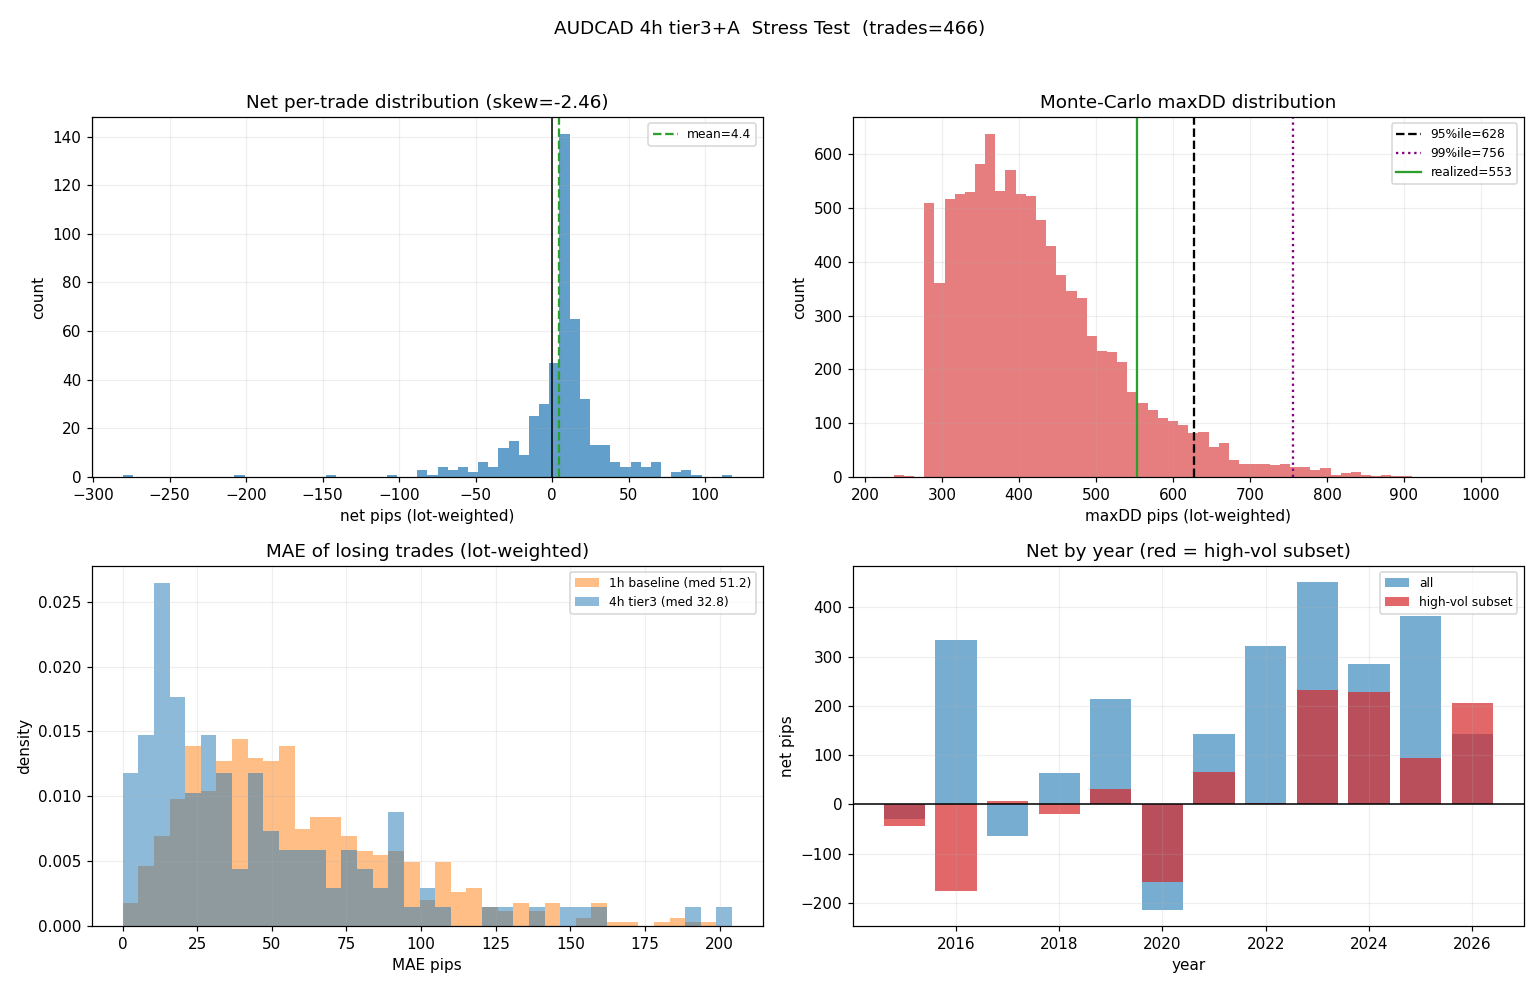
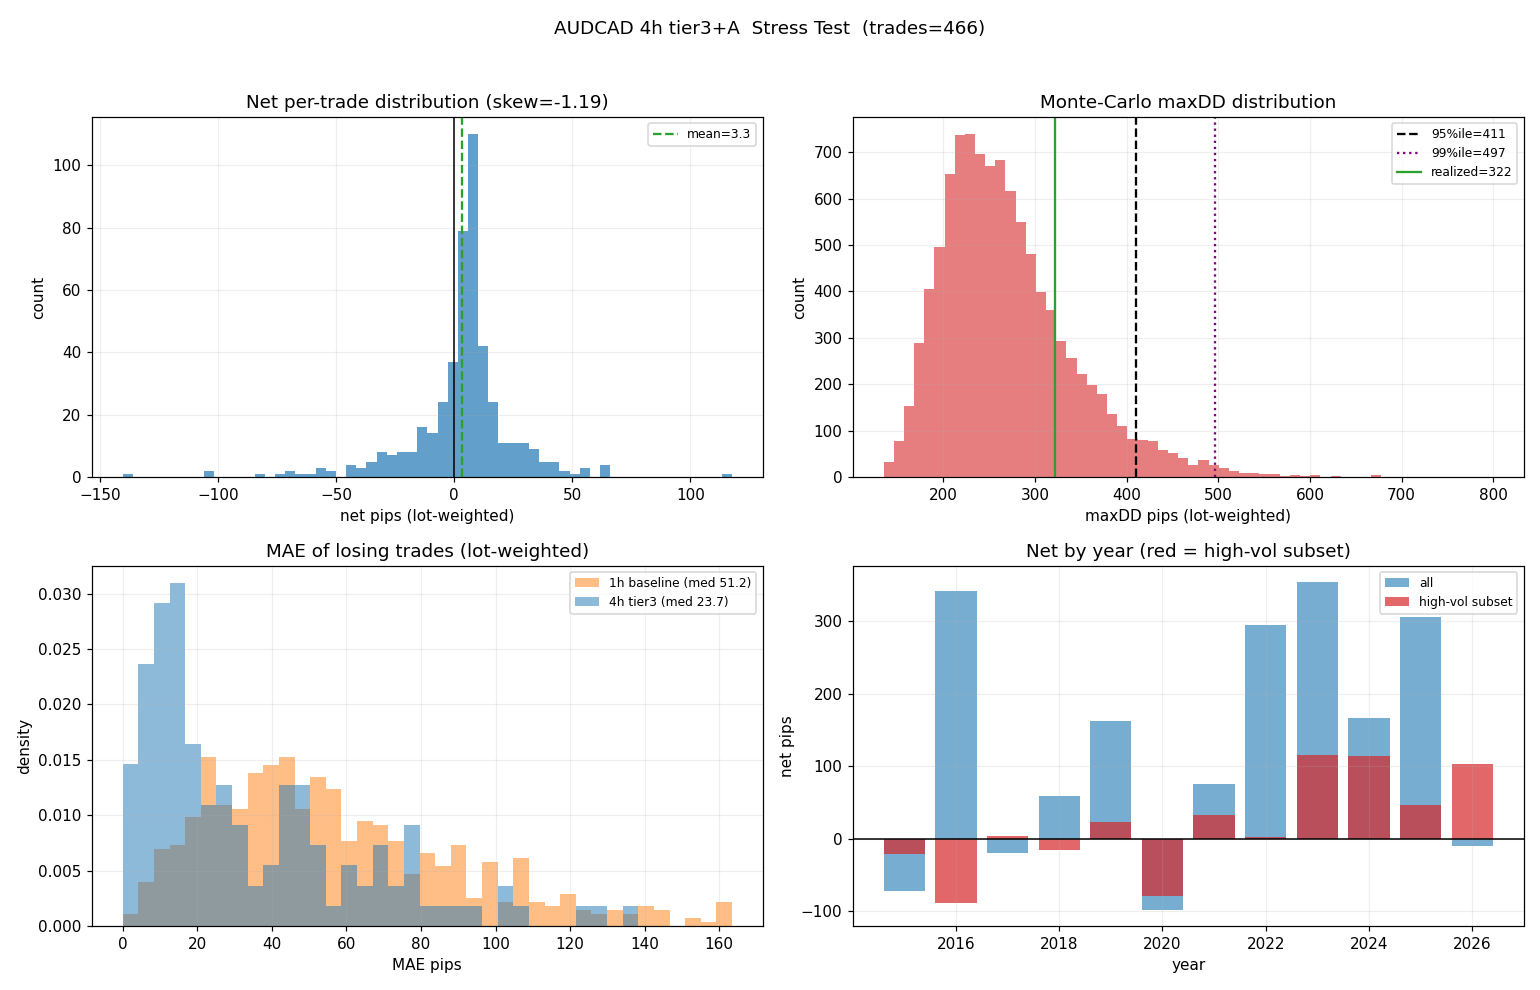
Fix AUDCAD vol-throttle not wired in audcad_stress_test.py
audcad_stress_test.py's _Args/dynamic_lot_mr_bt.base_cfg() never set
vol_throttle_th/vol_throttle_mult, so run_bt_tiered3 silently evaluated
with the high-vol lot throttle OFF (cfg.get default 1.01), even though
audcad_mr_deployment_plan.md documents its MC95 (398 lot-pip) as the
"throttle後" value and vps/mr_monitor.py actually runs AUDCAD with
vol_th=0.70. Re-running the script as-is reproduced 637 lot-pip instead.

- optimizer/audcad_stress_test.py: _Args now sets vol_throttle_th=0.70 /
  vol_throttle_mult=0.5 (matching vps/mr_monitor.py PAIR_CONFIG['AUDCAD']).
- optimizer/dynamic_lot_mr_bt.py: base_cfg() wires both keys through via
  getattr(args, ..., <old default>) so every other caller (its own CLI,
  mr_distribution_analysis.py) keeps the exact prior (throttle-off)
  behavior - non-breaking.
- Re-ran: MC95 now 411 lot-pip, matching (410.7) the independent
  mr_tiered_transfer_bt.make_cfg-based calc in mr_joint_basket_mc.py -
  cross-checked, not just closer to the documented 398.
- optimizer/mr_forward_review.py: update PAIRS['AUDCAD']['mc95_lotpip']
  398.0 -> 410.7 (the verified, reproducible figure) with provenance
  comment. This moves the AUDCAD killswitch dd_gt_mc95 threshold from
  429,840円 to 443,556円 at lot_scale=1.0.
- optimizer/test_dynamic_lot_mr_base_cfg.py: new regression guard (7
  checks) locking the wiring in both directions (passes through when
  set, stays OFF-default when absent).
[…]

diff --git a/optimizer/test_dynamic_lot_mr_base_cfg.py b/optimizer/test_dynamic_lot_mr_base_cfg.py
@@ -1,0 +1,82 @@
+"""
+test_dynamic_lot_mr_base_cfg.py - dynamic_lot_mr_bt.base_cfg() の vol_throttle 配線ガード。
+
+背景(2026-10-10): optimizer/audcad_stress_test.py の `_Args`/`base_cfg()` 連携が
+vol_throttle_th/vol_throttle_mult をcfgへ渡していなかったため、run_bt_tiered3の
+高ボラ・ロットスロットル(cfg.get('vol_throttle_th', 1.01)=実質OFF既定値)が常にOFFで
+評価され、audcad_mr_deployment_plan.md が「throttle後」と明記するMC95(398 lot-pip)が
+再現不能(素の再実行では637 lot-pipが出る=mr_forward_review.PAIRS['AUDCAD']のキル閾値と
+不整合)だった。_Args にデフォルト値(0.70/0.5, vps/mr_monitor.py PAIR_CONFIG['AUDCAD']と
+同値)を追加し、base_cfg() は getattr(args, ..., デフォルト)で他の呼び出し元(それらの
+argsにこの属性が無い)の既存動作を変えずに配線した。本テストはこの配線が両方向
+(新規に渡れば効く / 無ければ以前と同じOFF既定値を保つ)で正しいことを固定する回帰ガード。
+
+pytest不要(本プロジェクトの既存規約)。
+Usage: python3 optimizer/test_dynamic_lot_mr_base_cfg.py
+"""
+import sys
+from pathlib import Path
+
+sys.path.insert(0, str(Path(__file__).parent))
+import dynamic_lot_mr_bt as M
+import audcad_stress_test as A
+
+PASS, FAIL = [], []
+
+
+def check(name, cond, detail=''):
+    (PASS if cond else FAIL).append((name, detail))
+    print(f"  [{'PASS' if cond else 'FAIL'}] {name}  {detail}")
+
+
+class _BareArgs:
+    """vol_throttle_th/vol_throttle_mult を一切持たない呼び出し元の代表
+    (dynamic_lot_mr_bt.py自身のargparse Namespace / mr_distribution_analysis.py 等)。"""
+    def __init__(self):
+        d = dict(n=40, z_in=2.0, z_tp=0.0, z_stop=4.0, max_hold=48, zk=1.0, max_lot=3.0,
+                 squeeze_lo=0.2, squeeze_mult=0.5, vol_hi=0.9, vol_hi_mult=0.5,
+                 confirm_window=6, rsi_os=30.0, rsi_ob=70.0, adx_max=25.0, slope_max=1.0,
+                 z_in2=2.5, tier_lot=0.5, tier3_zs=[2.0, 2.5, 3.0], tier3_lots=[0.2, 0.3, 0.5],
+                 partial_z=1.5)
+        self.__dict__.update(d)
+
+
+print('=' * 78)
+print('[1] base_cfg() 配線: 属性が無い呼び出し元は従来通りOFF既定値のまま')
+print('=' * 78)
+cfg_bare = M.base_cfg(_BareArgs())
+check("vol_throttle_th無し属性 -> cfg既定値1.01(=OFF)のまま", cfg_bare['vol_throttle_th'] == 1.01,
+      f"got={cfg_bare['vol_throttle_th']}")
+check("vol_throttle_mult無し属性 -> cfg既定値1.0(=無効化無し)のまま", cfg_bare['vol_throttle_mult'] == 1.0,
+      f"got={cfg_bare['vol_throttle_mult']}")
+
+print('\n' + '=' * 78)
+print('[2] base_cfg() 配線: audcad_stress_test._Args() は実際にth/multを渡す')
+print('=' * 78)
+cfg_real = M.base_cfg(A._Args())
+check("AUDCAD向け_Args() -> vol_throttle_th=0.70がcfgに伝わる", cfg_real['vol_throttle_th'] == 0.70,
+      f"got={cfg_real['vol_throttle_th']}")
+check("AUDCAD向け_Args() -> vol_throttle_mult=0.5がcfgに伝わる", cfg_real['vol_throttle_mult'] == 0.5,
+      f"got={cfg_real['vol_throttle_mult']}")
+check("vps/mr_monitor.py PAIR_CONFIG['AUDCAD']の vol_th=0.70 と一致",
+      cfg_real['vol_throttle_th'] == 0.70)
+
+print('\n' + '=' * 78)
+print('[3] run_bt_tiered3: 配線先の既定値が base_cfg の既定値と一致していることの確認')
+print('=' * 78)
+import inspect
+src = inspect.getsource(M.run_bt_tiered3)
+check("run_bt_tiered3のソースにvol_throttle_th既定値1.01が存在(配線先の確認)",
+      "cfg.get('vol_throttle_th', 1.01)" in src)
+check("run_bt_tiered3のソースにvol_throttle_mult既定値1.0が存在(配線先の確認)",
+      "cfg.get('vol_throttle_mult', 1.0)" in src)
+
+print('\n' + '=' * 78)
+print(f"結果: PASS={len(PASS)}  FAIL={len(FAIL)}")
+print('=' * 78)
+if FAIL:
+    print('FAILしたケース:')
+    for name, detail in FAIL:
+        print(f"  - {name}  {detail}")
+    sys.exit(1)
+print('全ケースPASS。')

diff --git a/optimizer/mr_forward_review.py b/optimizer/mr_forward_review.py
@@ -49,7 +49,14 @@ PAIRS = {
     # optimizer/audcad_mr_deployment_plan.md / audcad_stress_test.py
     'AUDCAD': {'magic': 20260050, 'tag': 'MR_AC',
                'full_pf': 1.61, 'oos_pf': 2.57, 'wr': 0.71,
-               'mc95_lotpip': 398.0,        # throttle後 MC maxDD 95%ile (lot-pip)
+               # mc95_lotpip: 2026-10-10修正。旧398.0はaudcad_stress_test.pyがvol_throttle_th
+               # (高ボラ・ロットスロットル)を base_cfg() へ渡しておらず実質throttle OFFで
+               # 計算されていた不整合値(修正前に再現すると637 lot-pipが出る)。_Args/base_cfg
+               # にvol_throttle_th/vol_throttle_mult配線を追加し再計算した411(=throttle後 MC
+               # maxDD 95%ile)に更新。optimizer/mr_joint_basket_mc.py(別エンジン経路
+               # mr_tiered_transfer_bt.make_cfgベース, 同一seed/n_iter)の410.7と一致し
+               # クロスチェック済み。
+               'mc95_lotpip': 410.7,
                'pip_value_jpy': 1080.0},    # AUDCAD 1.0lot の 1pip ≒ 10CAD × CADJPY108
     # optimizer/mr_tiered_transfer_best.csv (IS1.28/OOS1.26/full1.28, exit=B/z_stop=4.0/vt=0.9)
     # mc95_lotpip: mr_tiered_transfer_bt.py --mc で算出(full期間トレード順シャッフル10,000回、

diff --git a/optimizer/audcad_stress_test.py b/optimizer/audcad_stress_test.py
@@ -43,7 +43,13 @@ class _Args:
                  atr_n=14, atr_lookback=500, ema_span=5, rsi_n=7, rsi_os=30, rsi_ob=70,
                  confirm_window=6, adx_max=25.0, slope_max=1.0, z_in2=2.5, tier_lot=0.5,
                  htf_tf='4h', htf_adx_n=14, htf_slope_ma=50, htf_slope_lb=10,
-                 tier3_zs=[2.0, 2.5, 3.0], tier3_lots=[0.2, 0.3, 0.5], partial_z=1.5)
+                 tier3_zs=[2.0, 2.5, 3.0], tier3_lots=[0.2, 0.3, 0.5], partial_z=1.5,
+                 # 高ボラ・ロットスロットル(vps/mr_monitor.py PAIR_CONFIG['AUDCAD']と同値:
+                 # ATRパーセンタイル(t-1)>=vol_throttle_th で全段lot x vol_throttle_mult)。
+                 # base_cfg()はこの2キーをそのままcfgへ転記するだけ(run_bt_tiered3側で
+                 # cfg.get('vol_throttle_th', 1.01)として読まれる。1.01=実質OFF)。
+                 # 旧 vol_hi/vol_hi_mult は別の未使用経路で、tiered3エンジンはここを見ない。
+                 vol_throttle_th=0.70, vol_throttle_mult=0.5)
         d.update(kw)
         self.__dict__.update(d)
 

diff --git a/optimizer/dynamic_lot_mr_bt.py b/optimizer/dynamic_lot_mr_bt.py
@@ -613,6 +613,12 @@ def base_cfg(args):
         'max_hold': args.max_hold, 'zk': args.zk, 'max_lot': args.max_lot,
         'squeeze_lo': args.squeeze_lo, 'squeeze_mult': args.squeeze_mult,
         'vol_hi': args.vol_hi, 'vol_hi_mult': args.vol_hi_mult,
+        # run_bt_tiered3 の高ボラ・ロットスロットル(cfg.get('vol_throttle_th', 1.01)で読まれる;
+        # 'vol_hi'/'vol_hi_mult'は別の未使用経路でtiered3はそこを見ない)。getattrはこのCLI/他の
+        # 呼び出し元(dynamic_lot_mr_bt.py の argparse Namespace 等)が未定義のままでも
+        # 1.01/1.0(=実質OFF)で既存動作を変えないためのデフォルト。
+        'vol_throttle_th': getattr(args, 'vol_throttle_th', 1.01),
+        'vol_throttle_mult': getattr(args, 'vol_throttle_mult', 1.0),
         'sizing_mode': 'fixed',
         'confirm_mode': 'none', 'confirm_window': args.confirm_window,
         'rsi_os': args.rsi_os, 'rsi_ob': args.rsi_ob,

diff --git a/CLAUDE.md b/CLAUDE.md
@@ -105,7 +105,7 @@ C:\Users\Administrator\fx_bot\
 
 ### 未決事項
 - MR_CC(20260051, CADCHF MR, demo): 2026-10-10 daily_gate監視へ追加(`mr_forward_review.py --pair CADCHF`, キルのみflag)。クラスタn30 PF2.29で単独ゲートは形式上クリア。MC95算出完了(2026-10-10, `mr_tiered_transfer_bt.py --mc`流用): MC95=435 lot-pip≈805,317円(lot_scale=1.0)。
-- MR_AC+MR_CC バスケット昇格設計(2026-10-10完了, `optimizer/mr_joint_basket_mc.py`, strategy_spec.md§16): BTトレード列を時系列マージしshuffle/ブロックブートストラップ両手法で合算MC95算出。月次相関+0.073〜0.13(弱)で**バスケットMC95は単純合算より35-38%小さい**→`basket_req_cap_99=949,907円`(保守側採用, lot_scale=1.0)を基準に両ペア**同一lot_scale**で昇格・個別キルスイッチに上乗せするバスケット・バックストップ(合算ローリング12moPF<1.0 or 合算maxDD>basket_req_cap_99)を設計。**実装完了(2026-10-10)**: `mr_forward_review.py --basket`(両magic生レッグ連結→クラスタ集約→kill_check()再利用)を追加し、`daily_gate.py`が個別判定に加えてBASKETも自動チェック(発火時は`mr_kill`フラグにBASKETラベルで記録)。回帰テスト`test_mr_forward_review_killswitch.py`[6]で24件PASS。**副発見**: `audcad_stress_test.py`を現状のまま再実行すると高ボラスロットルが掛からず(MC95=637 lot-pipで`mr_forward_review.PAIRS['AUDCAD']`の398と不整合) → 別タスクでフォロー予定。
+- MR_AC+MR_CC バスケット昇格設計(2026-10-10完了, `optimizer/mr_joint_basket_mc.py`, strategy_spec.md§16): BTトレード列を時系列マージしshuffle/ブロックブートストラップ両手法で合算MC95算出。月次相関+0.073〜0.13(弱)で**バスケットMC95は単純合算より35-38%小さい**→`basket_req_cap_99=949,907円`(保守側採用, lot_scale=1.0)を基準に両ペア**同一lot_scale**で昇格・個別キルスイッチに上乗せするバスケット・バックストップ(合算ローリング12moPF<1.0 or 合算maxDD>basket_req_cap_99)を設計。**実装完了(2026-10-10)**: `mr_forward_review.py --basket`(両magic生レッグ連結→クラスタ集約→kill_check()再利用)を追加し、`daily_gate.py`が個別判定に加えてBASKETも自動チェック(発火時は`mr_kill`フラグにBASKETラベルで記録)。回帰テスト`test_mr_forward_review_killswitch.py`[6]で24件PASS。**副発見のvol_throttle不整合も修正完了(2026-10-10)**: `audcad_stress_test.py`の`_Args`/`dynamic_lot_mr_bt.base_cfg()`に`vol_throttle_th`/`vol_throttle_mult`(=0.70/0.5, vps/mr_monitor.py PAIR_CONFIG['AUDCAD']と同値)を配線(他の既存呼び出し元は`getattr`既定値1.01/1.0でOFF維持=非破壊)。再計算後MC95=411 lot-pip(≈410.7, `mr_joint_basket_mc.py`と別エンジン経路でクロスチェック一致)。`mr_forward_review.PAIRS['AUDCAD']['mc95_lotpip']`を398.0→410.7に更新(AUDCADキル閾値 429,840円→443,556円)。回帰ガード`test_dynamic_lot_mr_base_cfg.py`で7件PASS。
 - `vps/account_snapshot.py`(1h毎, FX_Account_Snapshot)→ sync_historyで同梱push → daily_gate維持率flag(窓内最小値)。VPSで `register_account_snapshot.bat` 実行要。
 - Grid生成AIループ(`optimizer/loop/`, ledger/6ゲート): 次候補 ptp_frac+ptp_mult。月次OOSバジェット残3。
 - BB USDJPY / SMA_SQ / stat_arb / carry Grid(NZDJPY/USDJPY): demo・micro限定、スケール禁止(10年BTで頑健エッジ無し or carry-crashテール)。
